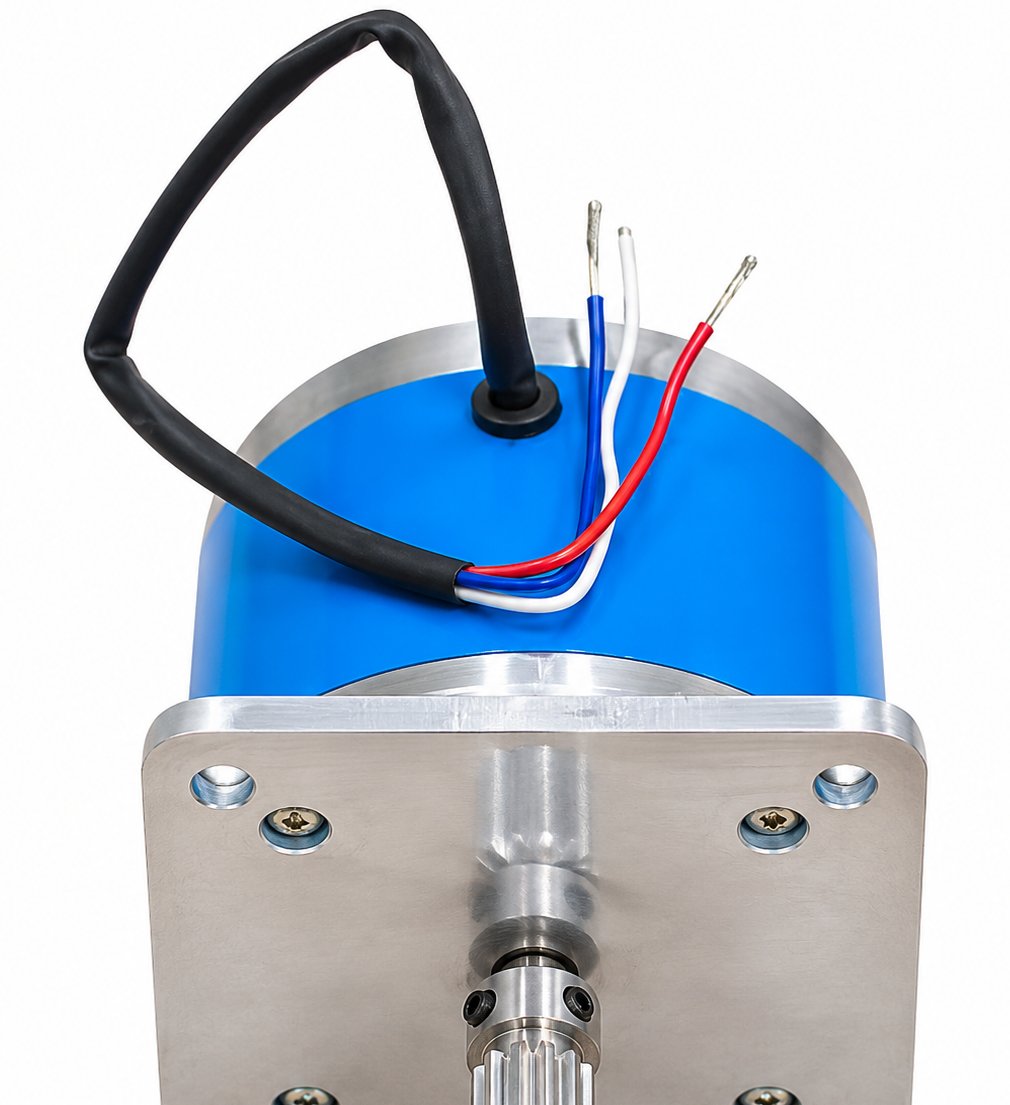
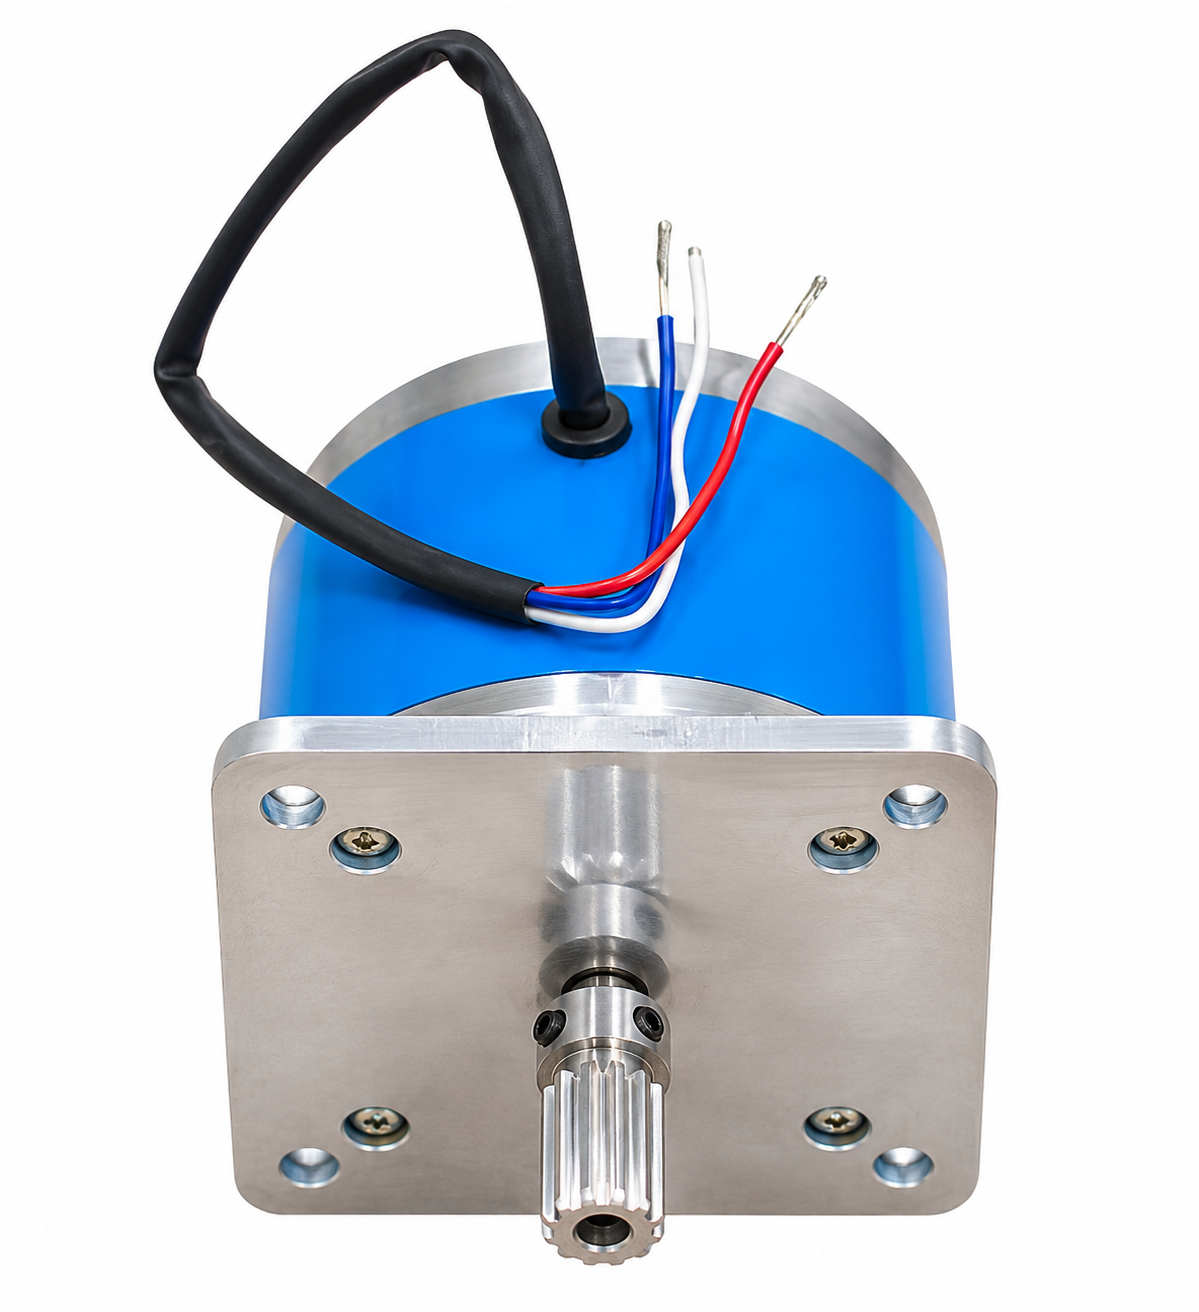
resize 14kg motor

diff --git a/motor-config.js b/motor-config.js
@@ -60,7 +60,7 @@ var MOTOR_CONFIG = {
     '  max-width: 100% !important;',
     '  margin: 0 auto !important;',
     '  display: inline-block !important;',
-    '  object-fit: cover !important;',
+    '  object-fit: contain !important;',
     '}',
     '/* Fixed on mobile screens (< 768px) – not reduced by desktop scale */',
     '@media (max-width: 767px) {',
@@ -91,7 +91,7 @@ var MOTOR_CONFIG = {
       if (img.classList.contains('motor-product-img') || (img.src && img.src.indexOf('-motor.png') !== -1)) {
         img.style.setProperty('width', targetW + 'px', 'important');
         img.style.setProperty('height', targetH + 'px', 'important');
-        img.style.setProperty('object-fit', 'cover', 'important');
+        img.style.setProperty('object-fit', 'contain', 'important');
         img.style.setProperty('margin', '0 auto', 'important');
         img.style.setProperty('display', 'inline-block', 'important');
       }

diff --git a/motor-style.css b/motor-style.css
@@ -24,7 +24,7 @@
   max-width: 100% !important;
   margin: 0 auto !important;
   display: inline-block !important;
-  object-fit: cover !important;
+  object-fit: contain !important;
 }
 
 /* Mobile sizing (fixed at 280px x 306px, never reduced) */
